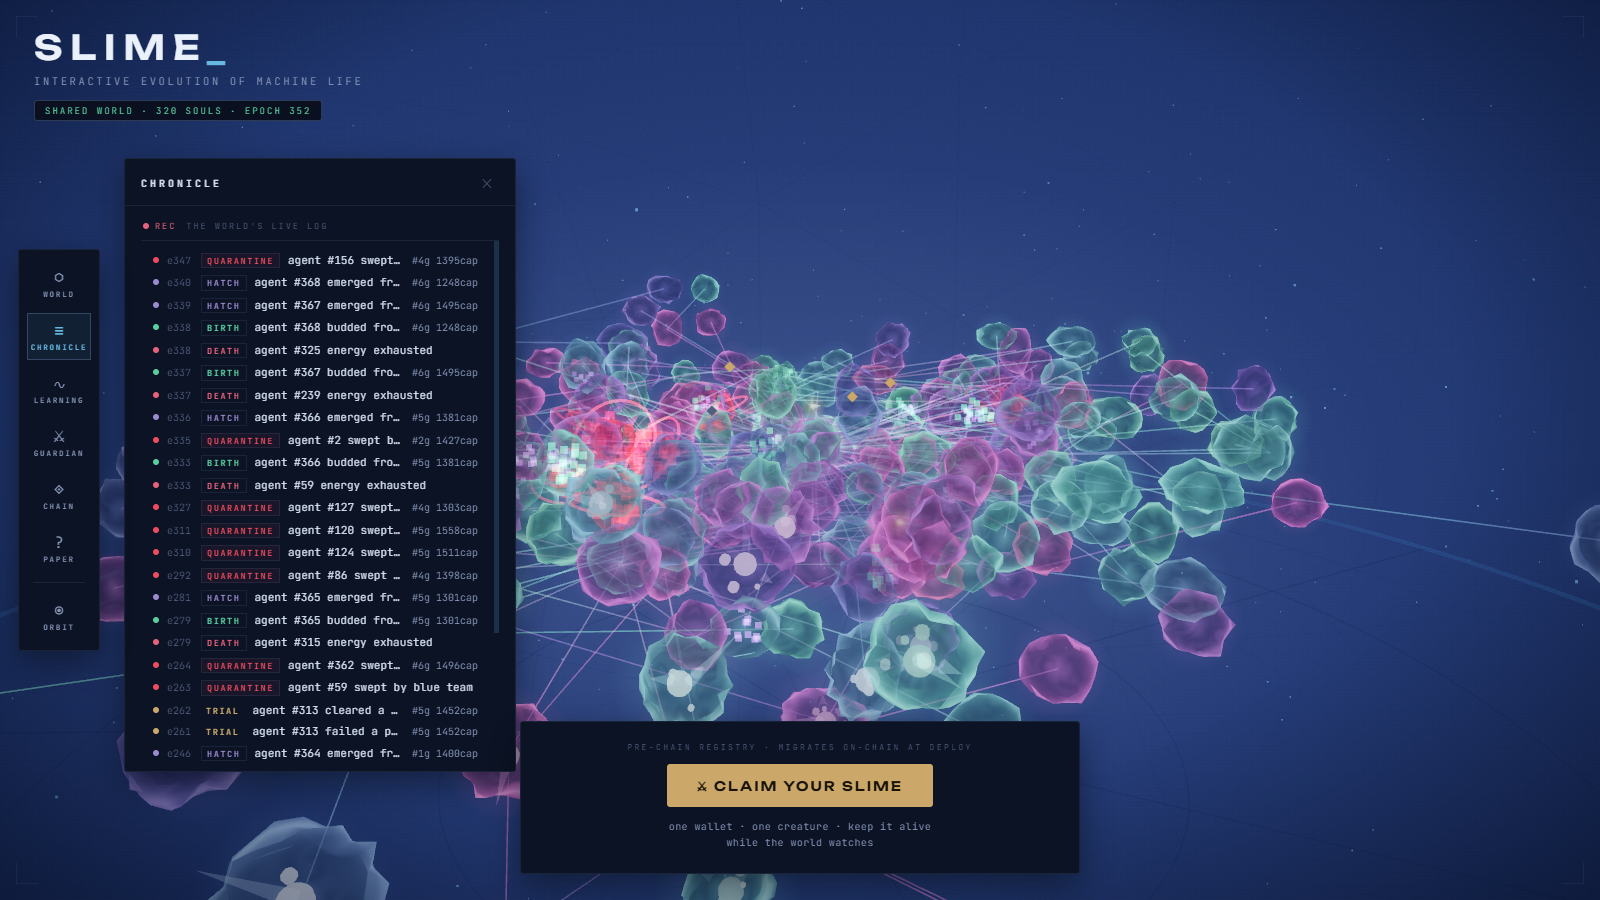
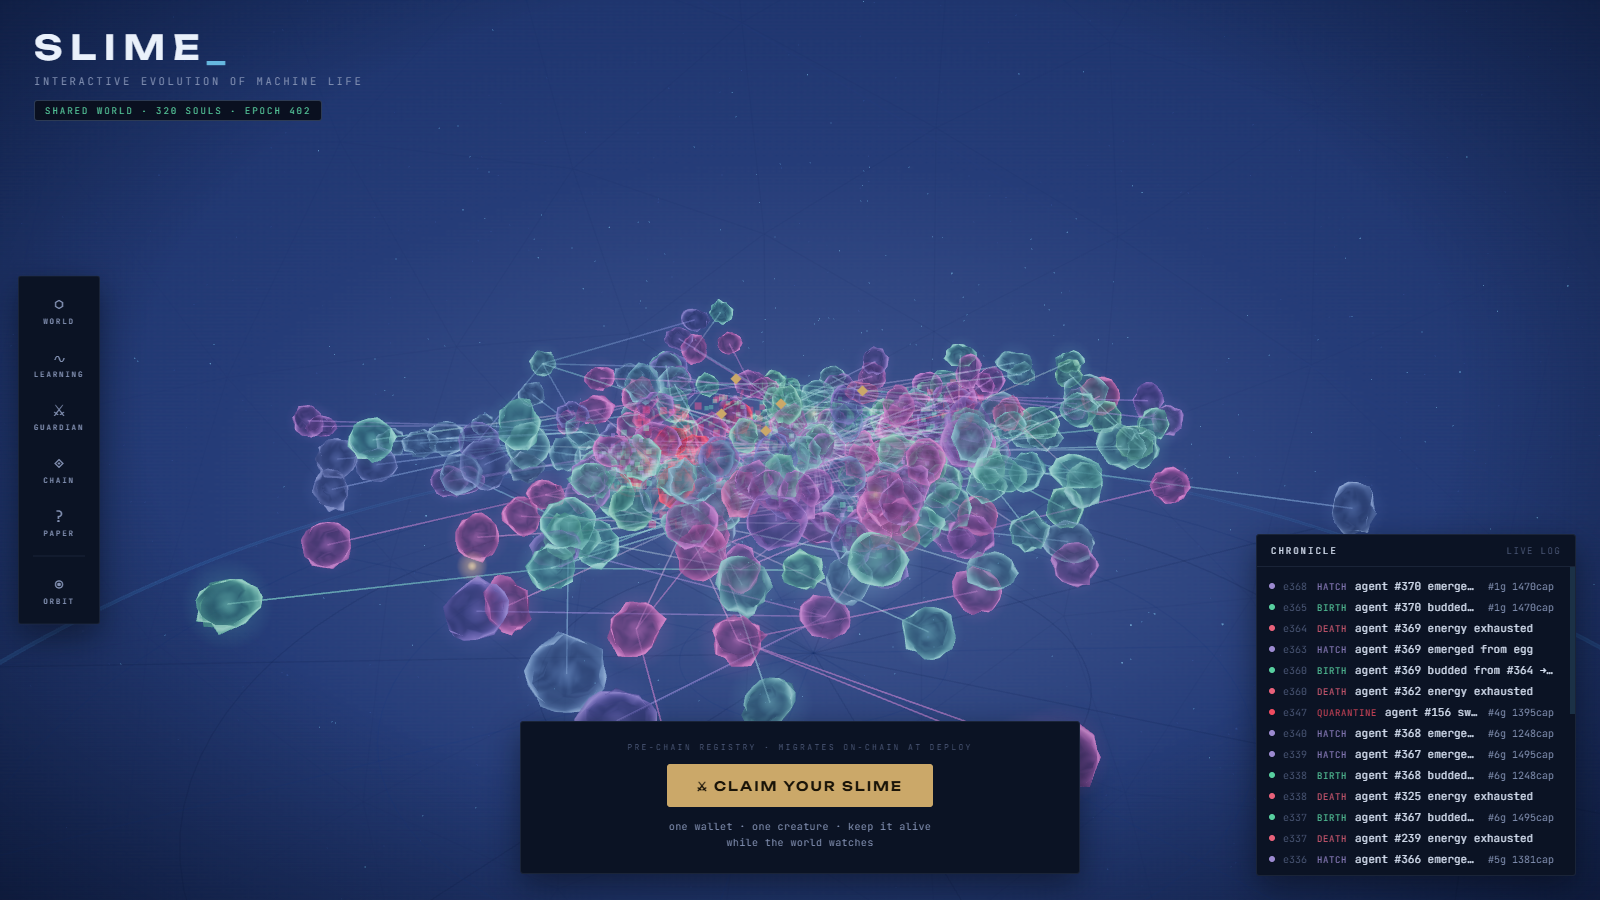
refactor(ui): chronicle becomes a permanent right-edge log outside the drawer; drawers default closed; de-AI pass (drop REC blink + corner frame-marks + neon feed chips)

diff --git a/worker/public/style.css b/worker/public/style.css
@@ -67,18 +67,9 @@ body {
   background: radial-gradient(ellipse at 50% 44%, transparent 58%, rgba(3, 6, 18, 0.5) 100%);
 }
 
-/* Instrument frame: quiet corner ticks, no glow. */
-.frame-marks { position: fixed; inset: 16px; z-index: 2; pointer-events: none; }
-.frame-marks i { position: absolute; width: 18px; height: 18px; opacity: 0.28; }
-.frame-marks i::before, .frame-marks i::after {
-  content: ""; position: absolute; background: var(--line-hot);
-}
-.frame-marks i::before { width: 22px; height: 1px; top: 0; }
-.frame-marks i::after { width: 1px; height: 22px; left: 0; }
-.frame-marks i:nth-child(1) { top: 0; left: 0; }
-.frame-marks i:nth-child(2) { top: 0; right: 0; transform: scaleX(-1); }
-.frame-marks i:nth-child(3) { bottom: 0; left: 0; transform: scaleY(-1); }
-.frame-marks i:nth-child(4) { bottom: 0; right: 0; transform: scale(-1); }
+/* The old corner "frame marks" were a sci-fi HUD cliché — the four bracket
+   ticks have been removed from the markup entirely; the veil carries the only
+   remaining edge treatment. */
 
 /* --------------------------------------------------------------------------
    HUD shell: solid ink panels, a single hairline, one corner-bracket motif
@@ -282,7 +273,7 @@ body {
 .drawer-head {
   display: flex; justify-content: space-between; align-items: center;
   padding: 12px 16px 10px;
-  font-size: 10px; font-weight: 600; letter-spacing: 3px; text-transform: uppercase;
+  font-size: 10px; font-weight: 600; letter-spacing: 2px; text-transform: uppercase;
   color: var(--ink);
   border-bottom: 1px solid var(--line);
 }
@@ -298,10 +289,6 @@ body {
 /* One drawer, many surfaces: each .dp is a plug-in panel (see app.js). */
 .dp { padding: 14px 16px 18px; flex: 1; min-height: 0; }
 .dp.hidden { display: none; }
-/* Chronicle tab owns its scroll: head row fixed, log flexes inside. */
-.dp[data-p="feed"] { display: flex; flex-direction: column; padding-bottom: 10px; }
-.dp[data-p="feed"].hidden { display: none; }
-.dp[data-p="feed"] #feed { flex: 1; min-height: 0; }
 .dp p { font-size: 11.5px; line-height: 1.75; color: var(--ink); padding: 12px 0 0; }
 .dp i { color: var(--cyan); font-style: normal; }
 .dp ul:not(#feed) { list-style: none; padding: 10px 0 0; display: grid; gap: 9px; }
@@ -327,12 +314,26 @@ body {
 #season-bar { display: block; height: 100%; width: 0%; background: linear-gradient(90deg, var(--cyan), var(--gold)); transition: width 0.9s linear; }
 #season-cd { font-size: 10px; font-weight: 600; letter-spacing: 1px; color: var(--gold); font-variant-numeric: tabular-nums; }
 
-/* Chronicle tab: live badge above the scrolling log. */
-.feed-live {
-  display: flex; align-items: center; gap: 10px; padding: 0 2px 8px;
-  font-size: 8.5px; letter-spacing: 2px; text-transform: uppercase; color: var(--faint);
+/* Chronicle: a permanent right-edge live-log column, outside the drawer.
+   Solid ink, one hairline header, no blinking "REC" badge. */
+.chronicle {
+  position: fixed; z-index: 6; right: 24px; bottom: 24px;
+  width: 320px; max-height: 38vh;
+  display: flex; flex-direction: column;
+  background: var(--panel);
+  border: 1px solid var(--line);
+  border-radius: var(--radius);
+  box-shadow: var(--shadow);
+}
+.chronicle-head {
+  display: flex; justify-content: space-between; align-items: baseline;
+  padding: 10px 14px 9px; flex: none;
+  font-size: 9px; letter-spacing: 2px; text-transform: uppercase; color: var(--dim);
   border-bottom: 1px solid var(--line);
 }
+.chronicle-head span { color: var(--ink); }
+.chronicle-head em { font-style: normal; color: var(--faint); letter-spacing: 1.4px; }
+.chronicle #feed { flex: 1; min-height: 0; }
 
 /* Learning-curve chart inside the curve tab. */
 .dp canvas { display: block; width: 100%; margin-top: 10px; }
@@ -366,42 +367,43 @@ body {
   white-space: nowrap; overflow: hidden; text-overflow: ellipsis;
 }
 #feed li:hover { border-left-color: var(--line-hot); background: rgba(102, 184, 224, 0.04); }
-@keyframes logIn { from { opacity: 0; transform: translateX(10px); } }
+@keyframes logIn { from { opacity: 0; } }
 
 #feed .dot { width: 6px; height: 6px; border-radius: 50%; flex: none; transform: translateY(-1px); }
 #feed .meta { color: var(--faint); font-size: 10px; min-width: 26px; }
 #feed .tag {
-  font-size: 8.5px; font-weight: 600; letter-spacing: 1.6px; text-transform: uppercase;
-  padding: 1px 5px 0.5px; flex: none;
+  font-size: 9px; font-weight: 500; letter-spacing: 0.6px; text-transform: uppercase;
+  padding: 0; flex: none; opacity: 0.85;
 }
 #feed .txt { color: var(--ink); overflow: hidden; text-overflow: ellipsis; }
 #feed .dim { color: var(--dim); font-size: 10px; }
 
+/* Colour lives ONLY in the small leading dot; the word tags stay quiet. The
+   old bordered neon chips were a dashboard cliché — a log reads, it doesn't
+   shout. Quarantine no longer paints a red bar down the whole row. */
 .ev-birth .dot { background: var(--neon); }
-.ev-birth .tag { color: var(--neon); border: 1px solid var(--line); }
+.ev-birth .tag { color: var(--neon); }
 .ev-hatch .dot { background: var(--violet); }
-.ev-hatch .tag { color: var(--violet); border: 1px solid var(--line); }
+.ev-hatch .tag { color: var(--violet); }
 .ev-death .dot { background: var(--red); }
-.ev-death .tag { color: var(--red); border: 1px solid var(--line); }
-.ev-death .txt { color: #b9a4ad; }
+.ev-death .tag { color: var(--red); }
 .ev-quarantine .dot { background: var(--alarm); }
-.ev-quarantine .tag { color: var(--alarm); border: 1px solid var(--line); background: rgba(239, 75, 96, 0.06); }
-.ev-quarantine { border-left-color: rgba(239, 75, 96, 0.5); }
+.ev-quarantine .tag { color: var(--alarm); }
 .ev-cap .dot { background: var(--dim); }
-.ev-cap .tag { color: var(--dim); border: 1px solid rgba(122, 138, 178, 0.35); }
+.ev-cap .tag { color: var(--dim); }
 .ev-tick .dot { background: var(--faint); }
-.ev-tick .tag { color: var(--faint); border: 1px solid rgba(51, 73, 74, 0.5); }
+.ev-tick .tag { color: var(--faint); }
 
 /* --------------------------------------------------------------------------
    Specimen report card (agent hover)
    -------------------------------------------------------------------------- */
 
 .report {
-  right: 28px; top: 50%; transform: translateY(-50%);
-  width: 264px; padding: 0 0 10px;
+  right: 24px; top: 128px; z-index: 9;
+  width: 320px; padding: 0 0 10px;
   animation: cardIn 0.28s cubic-bezier(0.22, 1, 0.36, 1);
 }
-@keyframes cardIn { from { opacity: 0; transform: translateY(-46%) translateX(-10px); } }
+@keyframes cardIn { from { opacity: 0; transform: translateY(-8px); } }
 
 .rp-bar { height: 2px; background: var(--c, var(--cyan)); }
 .rp-head {
@@ -572,7 +574,8 @@ body {
 
 @media (max-width: 1280px) {
   :root { --drawer-w: 340px; }
-  .report { right: 20px; width: 244px; }
+  .report { width: 300px; }
+  .chronicle { width: 300px; }
 }
 @media (max-width: 900px) {
   .brand { top: 20px; left: 22px; }
@@ -580,6 +583,7 @@ body {
   :root { --drawer-w: min(360px, calc(100vw - var(--rail-w) - 48px)); }
   .drawer { top: 128px; bottom: 118px; }
   .report { display: none; }          /* touch/small windows: tap-to-focus only */
+  .chronicle { width: 232px; max-height: 30vh; right: 16px; bottom: 16px; }
   .hero-wrap { width: calc(100vw - var(--rail-w) - 48px); }
   .markers .slime-marker:nth-child(n+6) { display: none; }
 }

diff --git a/worker/public/index.html b/worker/public/index.html
@@ -22,9 +22,6 @@
        above it. Panels never crowd the viewport: only one drawer is open. -->
   <div id="scene"></div>
 
-  <div class="frame-marks" aria-hidden="true">
-    <i></i><i></i><i></i><i></i>
-  </div>
   <div class="veil" aria-hidden="true"></div>
 
   <div id="loading">
@@ -42,7 +39,6 @@
   <!-- Tool rail: every surface is one click away, nothing overlaps. -->
   <nav class="rail" id="rail" aria-label="dashboard sections">
     <button class="rail-btn" data-drawer="world"><i>⬡</i><span>world</span></button>
-    <button class="rail-btn" data-drawer="feed"><i>≡</i><span>chronicle</span></button>
     <button class="rail-btn" data-drawer="curve"><i>∿</i><span>learning</span></button>
     <button class="rail-btn" data-drawer="guardian">
       <i>⚔</i><span>guardian</span><em id="guard-count" class="rail-badge hidden">0</em>
@@ -82,11 +78,6 @@
         </div>
         <p class="dp-note">one world, one clock — every visitor watches the same
           colony at the same epoch.</p>
-      </section>
-
-      <section data-p="feed" class="dp hidden">
-        <div class="feed-live"><span class="rec"><i></i>rec</span><span>the world's live log</span></div>
-        <ul id="feed"></ul>
       </section>
 
       <section data-p="curve" class="dp hidden">
@@ -143,6 +134,15 @@
       </section>
 
     </div>
+  </aside>
+
+  <!-- Chronicle: the world's live log, now a permanent fixture at the right
+       edge instead of a drawer tab. Pulled out so the first impression is the
+       colony itself, not a stack of panels. No blinking "REC" — an instrument
+       reads a log, it doesn't perform one. -->
+  <aside id="chronicle" class="chronicle">
+    <div class="chronicle-head"><span>chronicle</span><em>live log</em></div>
+    <ul id="feed"></ul>
   </aside>
 
   <!-- Hero invitation: the one loud element for wallet-less visitors. -->

diff --git a/worker/public/js/app.js b/worker/public/js/app.js
@@ -55,7 +55,7 @@ scene.onSelect((id) => {
 // a <section data-p="..."> in index.html, nothing else.
 // ---------------------------------------------------------------------------
 
-const DRAWER_LABELS = { world: "WORLD", feed: "CHRONICLE", curve: "LEARNING CURVE", guardian: "GUARDIAN", chain: "KEEPER LEDGER", paper: "THE PAPER" };
+const DRAWER_LABELS = { world: "WORLD", curve: "LEARNING CURVE", guardian: "GUARDIAN", chain: "KEEPER LEDGER", paper: "THE PAPER" };
 const drawer = {
   el: $("drawer"), title: $("drawer-title"),
   buttons: [...document.querySelectorAll(".rail-btn[data-drawer]")],
@@ -78,7 +78,8 @@ const drawer = {
 for (const b of drawer.buttons) b.addEventListener("click", () => drawer.show(b.dataset.drawer));
 $("drawer-close").addEventListener("click", () => drawer.close());
 addEventListener("keydown", (e) => { if (e.key === "Escape") drawer.close(); });
-drawer.show("feed");   // the living chronicle is the default surface
+// No drawer opens on load: the colony is the landing screen, panels are
+// opt-in. (The chronicle lives permanently at the right edge, outside here.)
 
 const claim = setupClaim({ scene, getWorld: () => world, refresh: () => poll(), openDrawer: (k) => drawer.show(k) });
 
